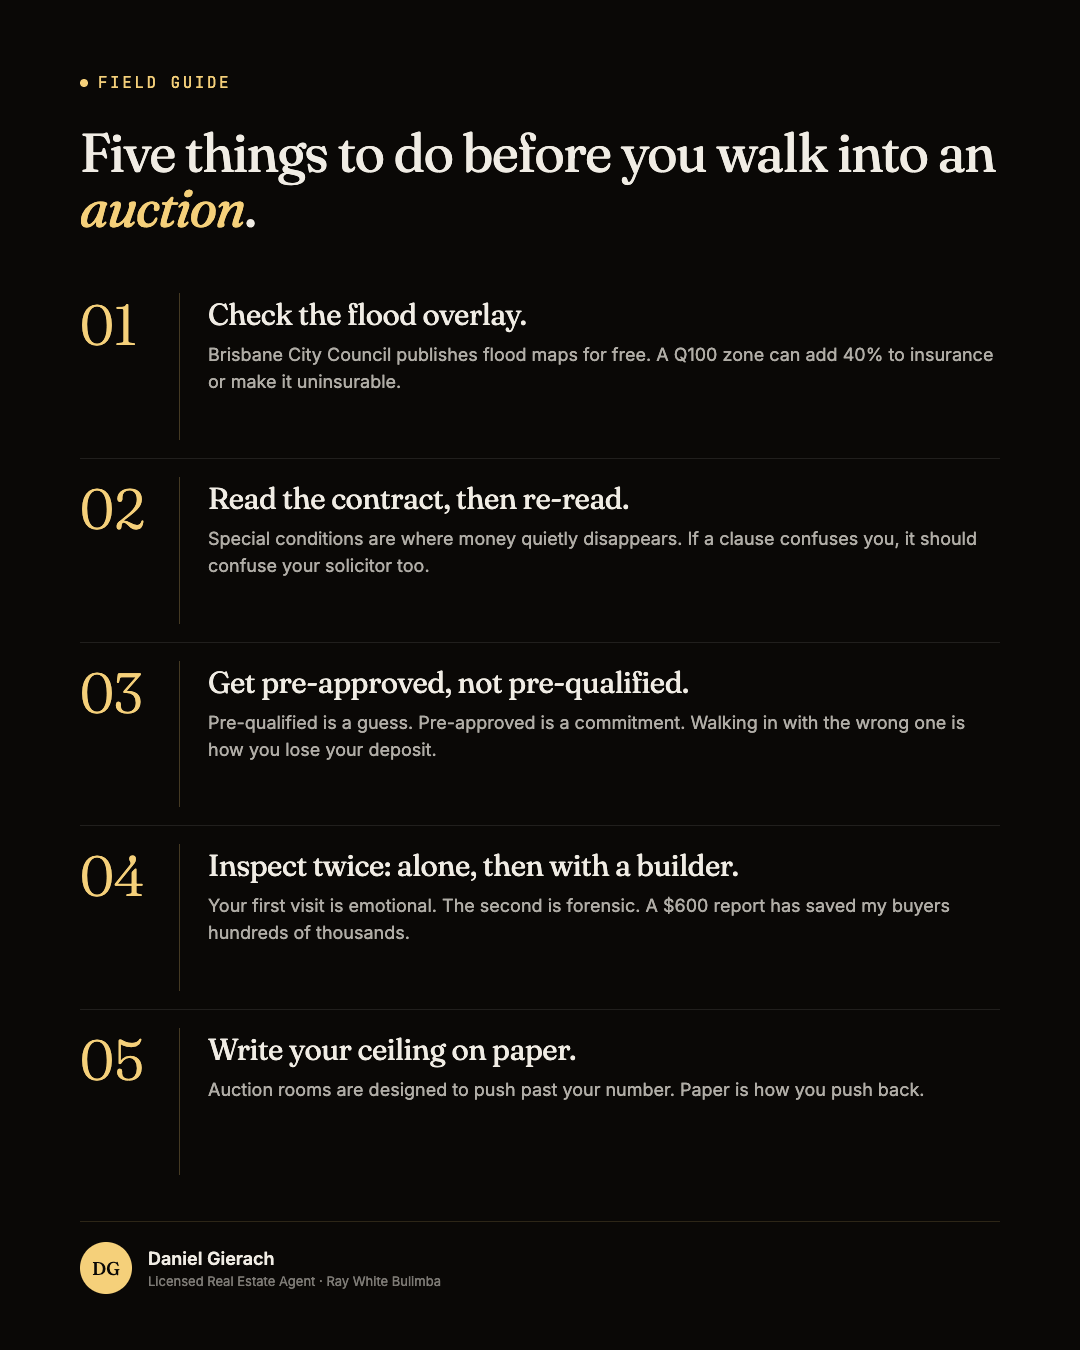
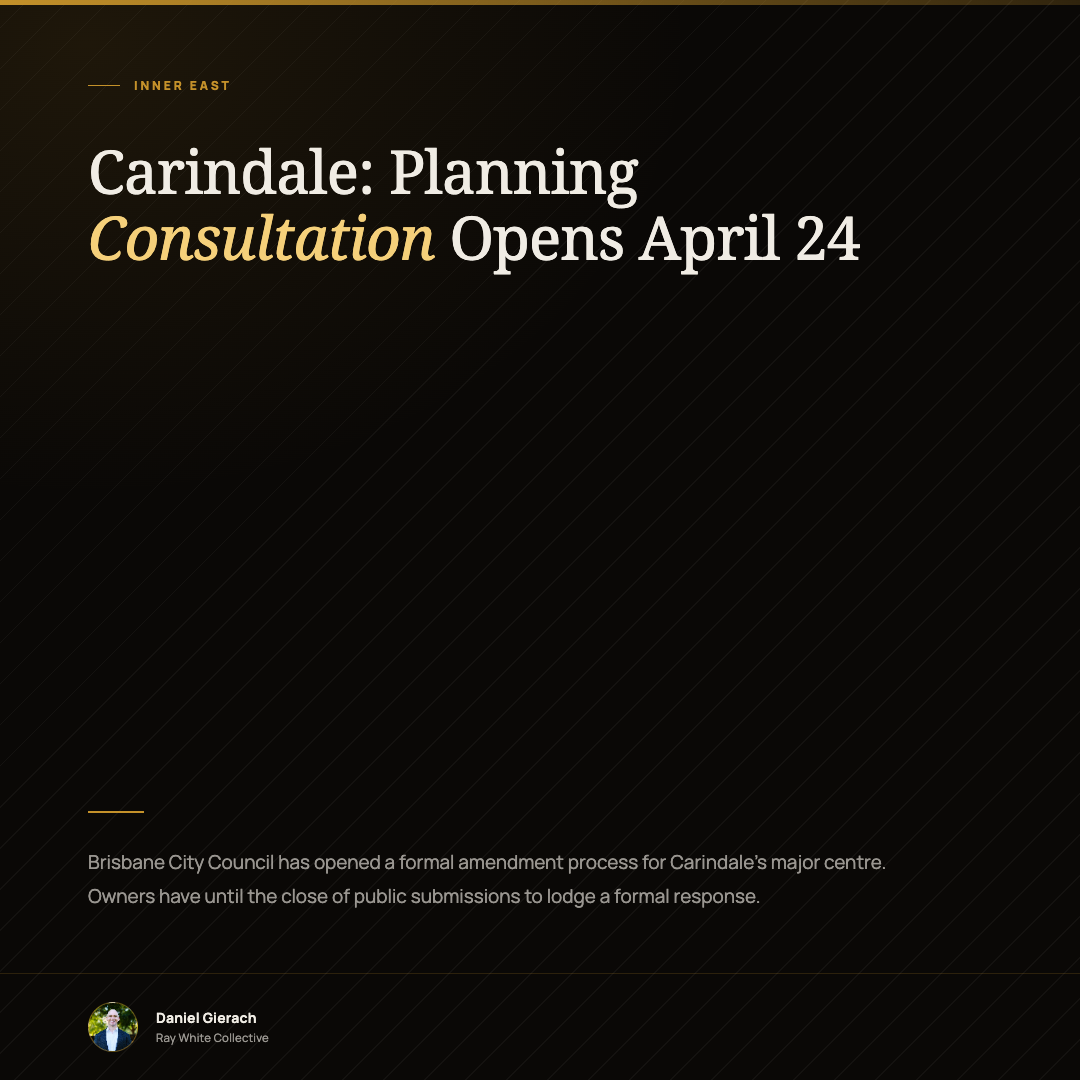
social: Carindale BCC planning alert (Apr 21) + intel log — 2026-04-19
Daily scout found BCC tailored amendment package for Carindale major centre
with public consultation opening April 24 2026. Time-sensitive signal — displaced
evergreen auction checklist to archive and wrote planning alert for Tuesday slot.

diff --git a/content/social/2026-04-21-linkedin-carindale-planning-consultation.md b/content/social/2026-04-21-linkedin-carindale-planning-consultation.md
@@ -1,0 +1,48 @@
+# Carindale Planning Amendment: Public Consultation Opens April 24
+
+**Platform:** LinkedIn
+**Format:** Post
+**Goal:** Alert Carindale property owners to the upcoming BCC planning amendment and position Daniel as the most informed agent in the suburb
+**Content Pillar:** authority
+**Status:** Ready for Review
+**Publish date:** 2026-04-21
+**Scheduled time:** 07:30
+**Visual status:** Ready
+**Image:** content/social/images/2026-04-21-linkedin-market.png
+
+---
+
+## Caption
+
+Brisbane City Council has confirmed a formal planning amendment for Carindale, with public consultation opening on 24 April 2026.
+
+The proposed changes fall under a tailored amendment package covering Carindale's major centre. The full details will not be released until consultation opens next Thursday, but amendments targeting major centres in Brisbane typically involve updated provisions around building height, land use mix, and commercial activity zones adjacent to residential streets.
+
+For property owners in Carindale, this is worth reading when the documents drop. Planning amendments near major centres can affect what gets built next door, what a property can be used for, and how the suburb changes character over the next decade. That is not always negative. In many cases updated zoning lifts long-term values by improving amenity. In others it brings density closer to established residential streets than owners would prefer.
+
+The public submission period is your window to formally respond. Council is required to consider all submissions. Most homeowners do not lodge one. The ones who do often shape the outcome.
+
+The consultation documents will be available at brisbane.qld.gov.au from 24 April. If you own property in Carindale and want a read on what these amendments could mean for your block specifically, danielgierach.com.
+
+## Hashtags
+
+#BrisbaneProperty
+#Carindale
+#UrbanPlanning
+#DanielGierach
+#InnerEastBrisbane
+
+## Notes for Daniel
+
+**Confidence: Check**
+
+⚠ VERIFY before posting:
+1. Confirm the April 24 consultation opening date at brisbane.qld.gov.au/building-and-planning/planning-and-design/city-plan-amendments/tailored-amendment-package-indooroopilly-carindale-and-nundah
+2. Once consultation opens (April 24), read the actual amendment documents and update the post body if the scope differs from the general "major centre" description used here
+3. Consider whether to post Tuesday as written (before the documents drop) or wait until April 23 Thursday if you prefer to write with the actual details in hand. If waiting, swap this with the April 23 article feature.
+
+**Suggested first comment (post after publishing):**
+The submission process is open to any owner or resident in the affected area. If you want to understand the specific impacts before lodging a submission, feel free to reach out.
+
+**Source:**
+https://www.brisbane.qld.gov.au/building-and-planning/planning-and-design/city-plan-amendments/tailored-amendment-package-indooroopilly-carindale-and-nundah

diff --git a/content/social/archive/2026-04-21-linkedin-auction-checklist.md b/content/social/archive/2026-04-21-linkedin-auction-checklist.md
@@ -1,0 +1,50 @@
+# LinkedIn Field Guide - Five Things to Do Before You Walk Into an Auction
+
+**Platform:** LinkedIn
+**Format:** Post
+**Goal:** Build trust with Brisbane buyers by giving them a practical, no-nonsense checklist before auction day
+**Content Pillar:** buyer
+**Status:** Ready for Review
+**Publish date:** 2026-04-21
+**Scheduled time:** 07:30
+**Visual status:** Ready
+**Image:** content/social/images/2026-04-21-linkedin-market.png
+
+---
+
+## Caption
+
+Most buyers walk into an auction knowing their limit. Fewer have actually done the groundwork that makes that limit mean something.
+
+Before you register to bid, five things are worth doing.
+
+Check the flood overlay. Brisbane City Council publishes flood maps for free. A property sitting in a Q100 zone can add 40% to annual insurance premiums or make the property uninsurable entirely. It takes five minutes to check, and it changes the picture.
+
+Read the contract before the auction, not after. The headline price gets the attention, but special conditions are where money quietly disappears. If a clause reads oddly, ask your solicitor. That question costs nothing.
+
+Get fully pre-approved, not pre-qualified. Pre-qualification is a lender estimating what you might borrow. Pre-approval is a written commitment. Bidding on an unconditional contract with the wrong one is how deposits get lost.
+
+Inspect twice: once on your own, once with a building inspector. The first walk-through is emotional. The second is forensic. A $600 inspection report has saved buyers in my experience from spending hundreds of thousands more than a property was worth.
+
+Write your ceiling down before you walk in. Auction rooms are designed to push past your number. Having it on paper, not just in your head, is how you hold the line.
+
+Any questions before auction day, danielgierach.com.
+
+## Hashtags
+
+#BrisbaneProperty
+#AuctionDay
+#BuyingProperty
+#DanielGierach
+#InnerEastBrisbane
+
+## Notes for Daniel
+
+**Confidence: Ready**
+- No external statistics used, no verify flags needed
+- The 40% insurance claim is a commonly cited figure for flood-prone Brisbane properties. ⚠ VERIFY: confirm this is consistent with your own experience or remove the specific percentage if uncertain
+
+**Posting tip:** Tuesday 07:30. This pairs well with auction season — consider whether there's an upcoming auction in your listings to tag or mention in a first comment.
+
+**Suggested first comment:**
+The one I'd add to this list: call the selling agent the week before and ask who else is registered. You won't always get a straight answer, but the way they respond tells you something. If they say "we're seeing strong interest" with no detail, that's a signal too.

diff --git a/content/intel/2026-04-19-carindale-bcc-planning-amendment.md b/content/intel/2026-04-19-carindale-bcc-planning-amendment.md
@@ -1,0 +1,17 @@
+---
+name: Brisbane City Council - Carindale Major Centre Planning Amendment
+description: BCC confirms tailored amendment package for Carindale (and Indooroopilly, Nundah) major centres. Public consultation opens April 24 2026.
+type: planning
+category: planning
+relevance: 8
+post_worthy: yes
+suburbs: Carindale
+source: https://www.brisbane.qld.gov.au/building-and-planning/planning-and-design/city-plan-amendments/tailored-amendment-package-indooroopilly-carindale-and-nundah
+published_date: 2026-04-19
+---
+
+Brisbane City Council has confirmed a formal City Plan amendment specifically targeting Carindale's major centre, alongside Indooroopilly and Nundah. Public consultation is scheduled to open on 24 April 2026, at which point the full amendment documents will be released.
+
+Major centre amendments in Brisbane typically address building height limits, land use mix, and the density of commercial and residential development zones adjacent to existing residential streets. For Carindale property owners, the amendment could affect what can be built nearby, how the suburb's character evolves, and ultimately long-term values.
+
+The submission window is the formal mechanism for residents and owners to influence the outcome. Post written and scheduled for April 21 (Tuesday 07:30) to alert Daniel's audience before consultation opens April 24.
